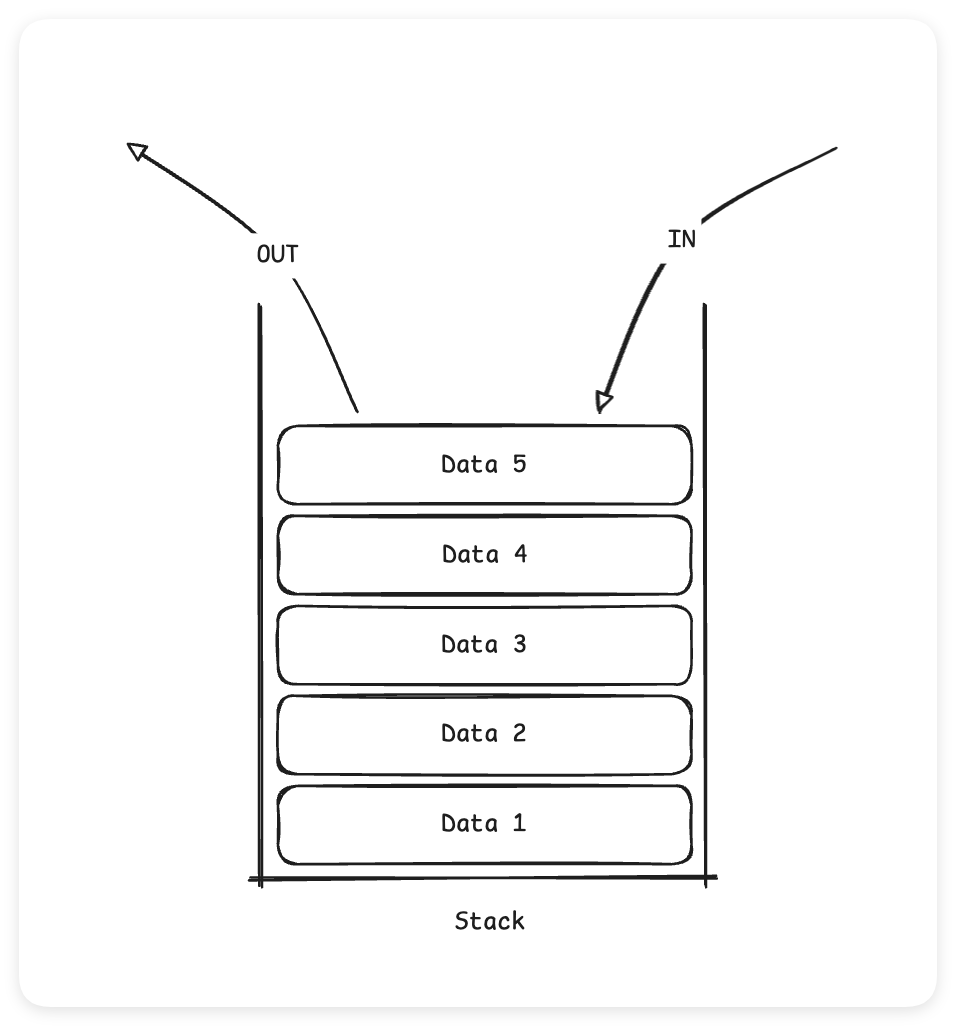
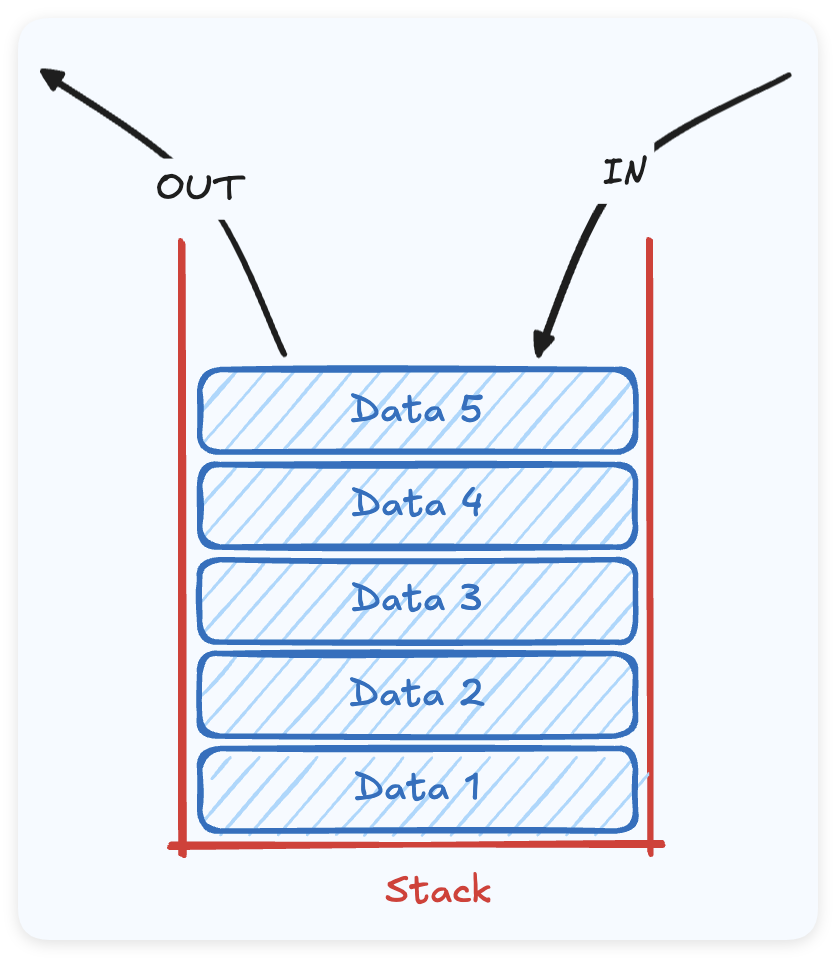
feat：为 JavaScript 异步编程文章添加队列示意图，增强内容可视化效果

Changed region(s): [[0.1244, 0.1211, 0.8086, 0.9687], [0.6842, 0.0605, 0.9641, 0.2724], [0.0311, 0.0605, 0.1244, 0.1211]]

diff --git a/src/content/blog/js-async-programming.md b/src/content/blog/js-async-programming.md
@@ -405,6 +405,8 @@ JavaScript 能够实现异步的核心在于其采用了异步模型。JS 异步
 
 > **队列（Queue）** 是一种 **先进先出（FIFO，First In First Out）** 的数据结构。
 >
+> ![队列示意图](../../../public/images/js-async-programming/img-5.png)
+>
 > 顾名思义，可以把队列想象成一条正在排队的队伍，每次只能从队头消费，而最先入队的人越靠前，所以我们称为先进先出。
 
 任务队列也称为事件队列，是异步任务等待执行的地方。异步任务进入任务队列后，会在主线程有空的时候被取出执行。
